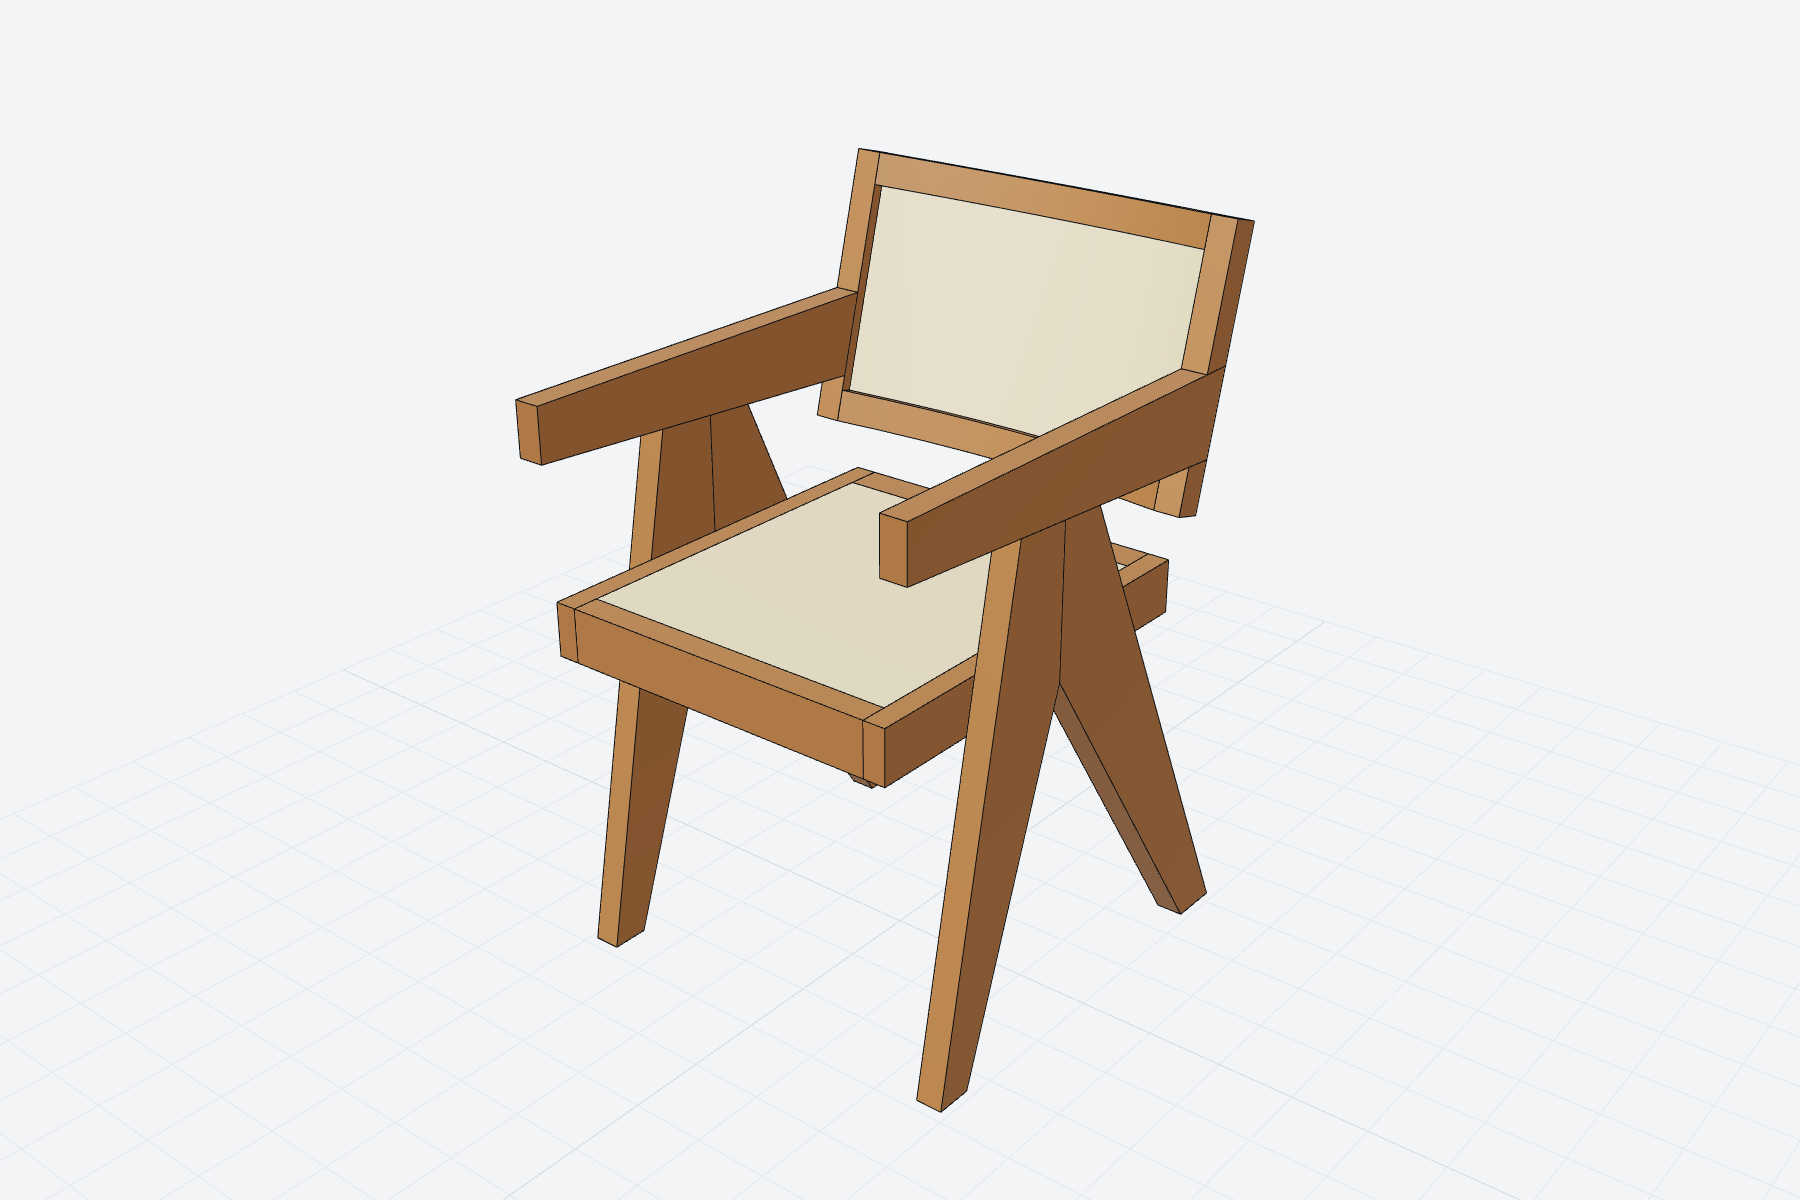
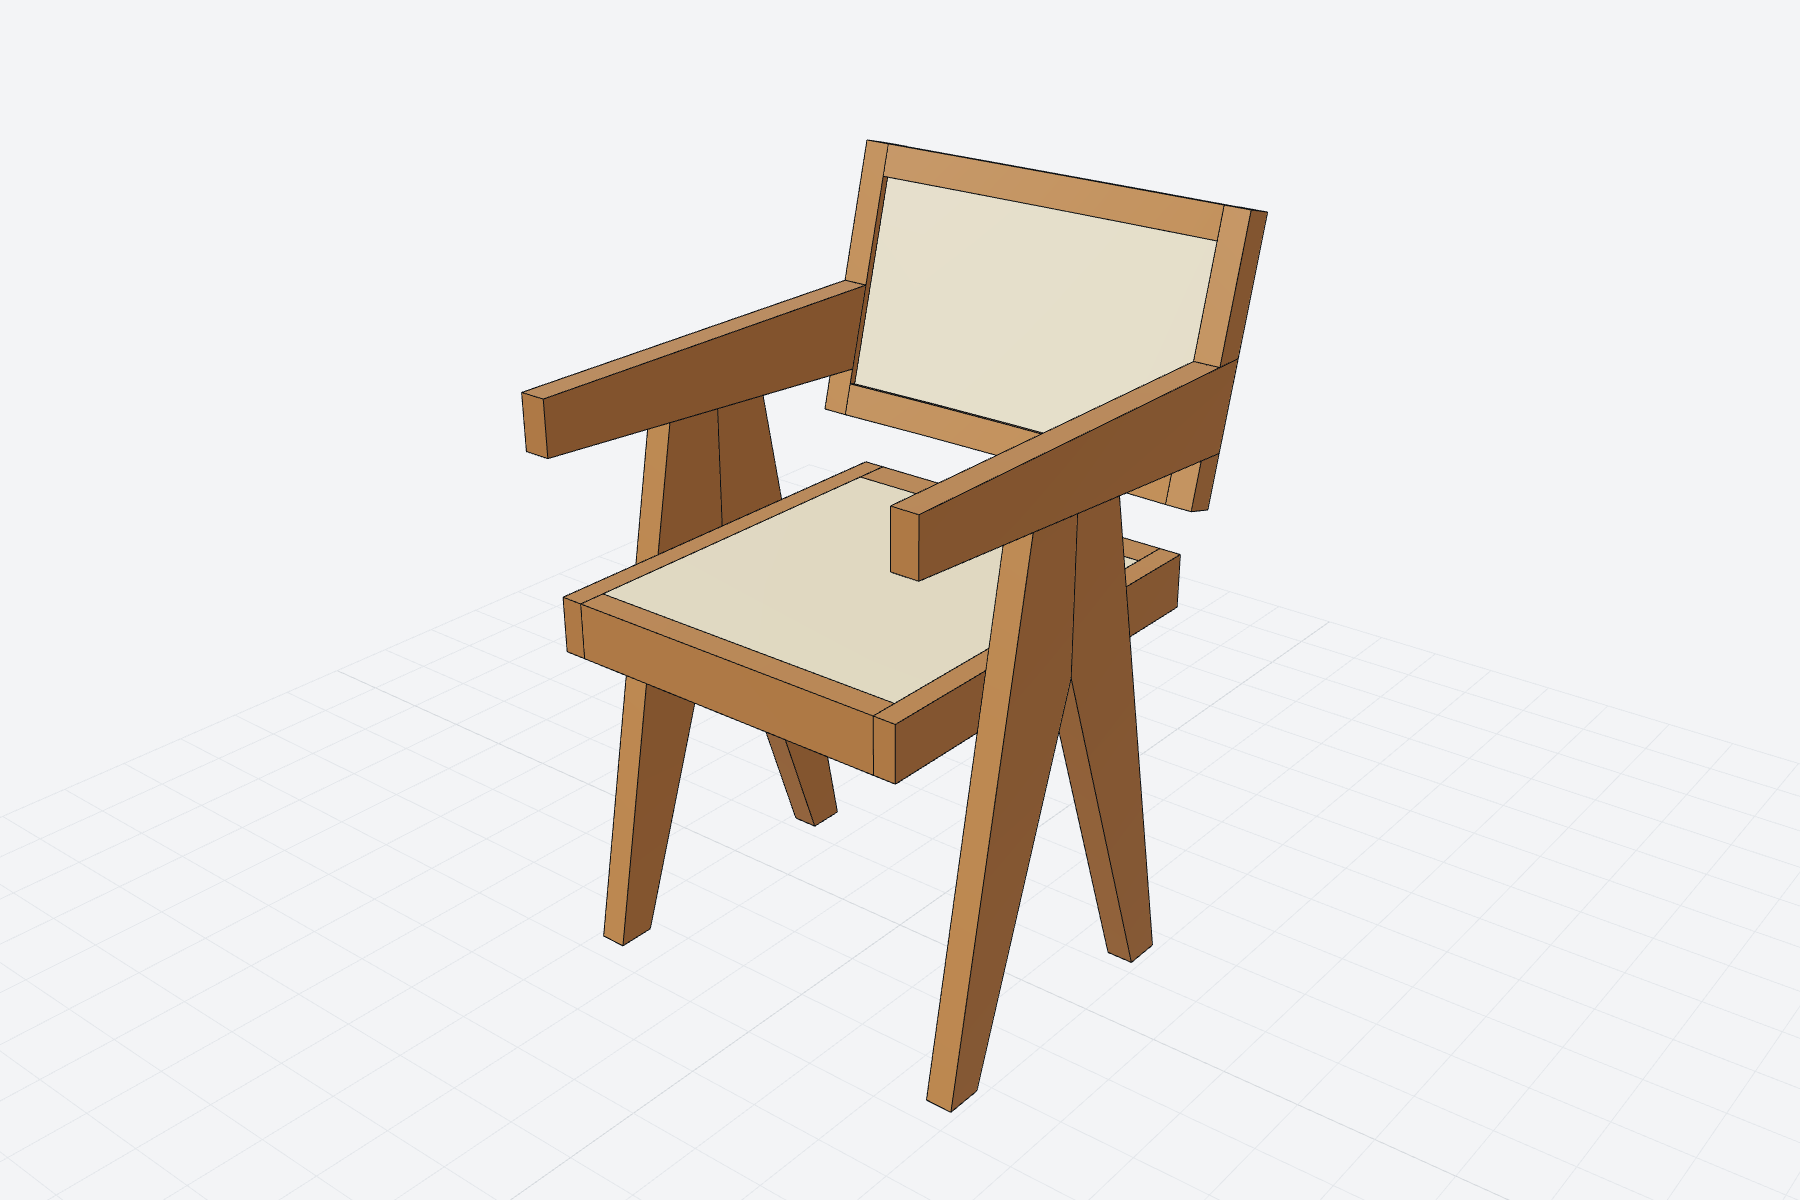
Examples: the compass armchair's legs are an isosceles V and its back's camber hides within the posts
The two boards of a side now mirror about the seam, feet at 139..181 mm either side of it and edges 70 mm
either side under the armrest, as on the chair; only their tops differ, each following the armrest's slope.
The back's rails are 24 mm deep in 34 mm posts: an arc of radius 2222 mm whose 10 mm bow keeps the rails'
rear face flush with the posts' back at the middle and their front face flush with the posts' front at the
ends, so that nothing of the back shows beyond the posts in a side view. The rails' tenons sit where the
arc's middle line meets the posts. The check also asserts, in the back's own frame, that no member of the
back reaches before or behind the posts.

Changed region(s): [[0.28, 0.0925, 0.7156, 0.925], [0.3422, 0.2775, 0.4044, 0.3083]]

diff --git a/examples/compass_armchair.py b/examples/compass_armchair.py
@@ -8,26 +8,31 @@ from smlibpy import *
 # catalogue: 51 cm over the arms, 55 deep, seat 43-45, arms 66. The chair faces -Y; x = 0 is its middle. The legs,
 # the armrest and the back post of a side are boards of one thickness, all in one plane.
 W, LEG_T = 480.0, 30.0  # outside width over the boards; their thickness across the chair
-FRONT_FOOT, REAR_FOOT = (-181.0, -139.0), (262.0, 318.0)  # the feet on the floor, front edge to back edge
+FRONT_FOOT, REAR_FOOT = (-181.0, -139.0), (139.0, 181.0)  # the feet on the floor, front edge to back edge
 NOTCH_Z = 400.0  # where the two boards of a side part, on the seam y = 0; above it they are one up to the armrest
-ARM_EDGES = (-70.0, 58.0)  # the two boards' outer edges where they meet the armrest
+ARM_EDGES = (-70.0, 70.0)  # the two boards' outer edges where they meet the armrest: the V is isosceles
 SPLINE, SPLINE_Z = (20.0, 16.0), 457.0  # a loose tenon on the seam, across and thick, from this height up
 SPLINE_IN_ARM = 40.0  # how far it goes on into the armrest
 ARM_TOP, ARM_FRONT = 645.0, -235.0  # the armrest, a blade on edge: its level top and its nose
 ARM_HEIGHT = ((-235.0, 60.0), (280.0, 95.0))  # (y, height) at the nose and at the back: the underside slopes
 SEAT_TOP, RAIL_H, RAIL_T, CANE = 437.0, 60.0, 25.0, 8.0  # the seat frame: top, rail height and thickness; cane
 SEAT_Y, FRONT_RAIL_T, REAR_RAIL_T = (-229.0, 240.0), 30.0, 40.0  # the side rails, nose to back; the cross rails
-TENON, LEG_TENON_Y = (20.0, 10.0, 40.0), (-55.0, 70.0)  # into the leg or the rail, thick, high; where the legs get it
+TENON, LEG_TENON_Y = (20.0, 10.0, 40.0), (-55.0, 55.0)  # into the leg or the rail, thick, high; where the legs get it
 BACK_TILT, POST = 15.0, (30.0, 34.0)  # the back leans 15 degrees; a post: across, deep
 POST_Y_AT_ARM = 260.0  # the posts' axis at the armrest's top
-R_BACK, RAIL_D = 700.0, 32.0  # the back is an arc: the radius of its middle line; its rails are this deep
+RAIL_D = 24.0  # the back's rails are this deep, less than the posts: the arc's bow hides within the posts' depth
 BACK_RAILS, BACK_TENON = ((65.0, 100.0), (330.0, 365.0)), (20.0, 10.0, 20.0)  # along the posts, from seat height
 BIG = 3000.0
 
 X_BOARD = W / 2 - LEG_T  # the inner face of a side's boards
 LEAN = math.radians(BACK_TILT)
 POST_Y = POST_Y_AT_ARM - (ARM_TOP - SEAT_TOP) * math.tan(LEAN)  # the posts' axis at seat height
-ARC_Y = -math.sqrt(R_BACK**2 - X_BOARD**2)  # the arc's center, so that its middle line passes through the posts' axes
+BOW = POST[1] - RAIL_D  # the arc's inner line bows this much (10 mm) over the half chord between the posts
+R_BACK = (X_BOARD**2 + BOW**2) / (2 * BOW) + RAIL_D / 2  # the radius of the arc's middle line
+# The arc's center: the rails' rear face is flush with the posts' rear face at the middle, their front face with
+# the posts' front face at the ends, so that nothing of the back shows beyond the posts in a side view.
+ARC_Y = POST[1] / 2 - (R_BACK + RAIL_D / 2)
+Y_END = ARC_Y + math.sqrt(R_BACK**2 - X_BOARD**2)  # the arc's middle line where it meets a post
 
 
 def underside(y: float) -> float:
@@ -48,6 +53,7 @@ FRONT_LEG = [
     (0, underside(0)),
     (ARM_EDGES[0], underside(ARM_EDGES[0])),
 ]
+# Its mirror image about the seam, but for the top: both boards' tops follow the armrest's sloping underside.
 REAR_LEG = [
     (REAR_FOOT[0], 0),
     (REAR_FOOT[1], 0),
@@ -113,7 +119,9 @@ def model() -> list[Part]:
         arm = (arm_prism & behind_the_posts()) - [post_full & inner, spline]
         post = post_full - (arm_prism & outer)
         post -= [
-            tilt(Box(*BACK_TENON, align=(Align.MIN, Align.CENTER, Align.CENTER)).translate(X_BOARD, 0, (z0 + z1) / 2))
+            tilt(
+                Box(*BACK_TENON, align=(Align.MIN, Align.CENTER, Align.CENTER)).translate(X_BOARD, Y_END, (z0 + z1) / 2)
+            )
             for z0, z1 in BACK_RAILS
         ]
         for p, name in (
@@ -141,20 +149,24 @@ def model() -> list[Part]:
         2 * x_rail, SEAT_Y[1] - REAR_RAIL_T - SEAT_Y[0] - FRONT_RAIL_T, CANE, align=(Align.CENTER, Align.MIN, Align.MAX)
     )
     parts.append(seat.translate(0, SEAT_Y[0] + FRONT_RAIL_T, SEAT_TOP).named("seat cane").colored(cane))
+    for member, name in back_frame():
+        parts.append(tilt(member).named(name).colored(cane if name == "back cane" else teak))
+    return parts
+
+
+def back_frame() -> list[tuple[Part, str]]:
+    """The back's rails and cane panel, in the back's own frame: arcs that stay within the posts' depth."""
+    members = []
     for z0, z1 in BACK_RAILS:
         rail = arc_band(R_BACK - RAIL_D / 2, R_BACK + RAIL_D / 2).extrude(z1 - z0).translate(0, 0, z0)
         for s in (1, -1):
             rail += Box(*BACK_TENON, align=(Align.MIN if s > 0 else Align.MAX, Align.CENTER, Align.CENTER)).translate(
-                s * X_BOARD, 0, (z0 + z1) / 2
+                s * X_BOARD, Y_END, (z0 + z1) / 2
             )
-        parts.append(tilt(rail).named("back rail").colored(teak))
-    panel = (
-        arc_band(R_BACK - CANE / 2, R_BACK + CANE / 2)
-        .extrude(BACK_RAILS[1][0] - BACK_RAILS[0][1])
-        .translate(0, 0, BACK_RAILS[0][1])
-    )
-    parts.append(tilt(panel).named("back cane").colored(cane))
-    return parts
+        members.append((rail, "back rail"))
+    panel = arc_band(R_BACK - CANE / 2, R_BACK + CANE / 2).extrude(BACK_RAILS[1][0] - BACK_RAILS[0][1])
+    members.append((panel.translate(0, 0, BACK_RAILS[0][1]), "back cane"))
+    return members
 
 
 def area(polygon: list[tuple[float, float]]) -> float:
@@ -258,6 +270,9 @@ def check(parts: list[Part]) -> None:
                 assert by_name[name][0].distance_to(by_name[other][0]) > 0.5, (name, other)
     for name in ("front leg", "rear leg"):
         assert all(abs(p.bbox().min.z) < 1e-6 for p in by_name[name]), name  # feet flat on the floor
+    for member, name in back_frame():  # in the back's own frame: nothing of it before or behind the posts
+        box = member.bbox()
+        assert box.min.y > -POST[1] / 2 - 1e-6 and box.max.y < POST[1] / 2 + 1e-6, (name, box.min.y, box.max.y)
     teak = sum(p.mass_properties(density=0.65e-3).mass for p in parts if "cane" not in p.name)
     print(f"{len(parts)} parts, {whole.bbox().size} mm over all, teak {teak / 1000:.2f} kg")
 

diff --git a/docs/examples.md b/docs/examples.md
@@ -216,26 +216,31 @@ from smlibpy import *
 # catalogue: 51 cm over the arms, 55 deep, seat 43-45, arms 66. The chair faces -Y; x = 0 is its middle. The legs,
 # the armrest and the back post of a side are boards of one thickness, all in one plane.
 W, LEG_T = 480.0, 30.0  # outside width over the boards; their thickness across the chair
-FRONT_FOOT, REAR_FOOT = (-181.0, -139.0), (262.0, 318.0)  # the feet on the floor, front edge to back edge
+FRONT_FOOT, REAR_FOOT = (-181.0, -139.0), (139.0, 181.0)  # the feet on the floor, front edge to back edge
 NOTCH_Z = 400.0  # where the two boards of a side part, on the seam y = 0; above it they are one up to the armrest
-ARM_EDGES = (-70.0, 58.0)  # the two boards' outer edges where they meet the armrest
+ARM_EDGES = (-70.0, 70.0)  # the two boards' outer edges where they meet the armrest: the V is isosceles
 SPLINE, SPLINE_Z = (20.0, 16.0), 457.0  # a loose tenon on the seam, across and thick, from this height up
 SPLINE_IN_ARM = 40.0  # how far it goes on into the armrest
 ARM_TOP, ARM_FRONT = 645.0, -235.0  # the armrest, a blade on edge: its level top and its nose
 ARM_HEIGHT = ((-235.0, 60.0), (280.0, 95.0))  # (y, height) at the nose and at the back: the underside slopes
 SEAT_TOP, RAIL_H, RAIL_T, CANE = 437.0, 60.0, 25.0, 8.0  # the seat frame: top, rail height and thickness; cane
 SEAT_Y, FRONT_RAIL_T, REAR_RAIL_T = (-229.0, 240.0), 30.0, 40.0  # the side rails, nose to back; the cross rails
-TENON, LEG_TENON_Y = (20.0, 10.0, 40.0), (-55.0, 70.0)  # into the leg or the rail, thick, high; where the legs get it
+TENON, LEG_TENON_Y = (20.0, 10.0, 40.0), (-55.0, 55.0)  # into the leg or the rail, thick, high; where the legs get it
 BACK_TILT, POST = 15.0, (30.0, 34.0)  # the back leans 15 degrees; a post: across, deep
 POST_Y_AT_ARM = 260.0  # the posts' axis at the armrest's top
-R_BACK, RAIL_D = 700.0, 32.0  # the back is an arc: the radius of its middle line; its rails are this deep
+RAIL_D = 24.0  # the back's rails are this deep, less than the posts: the arc's bow hides within the posts' depth
 BACK_RAILS, BACK_TENON = ((65.0, 100.0), (330.0, 365.0)), (20.0, 10.0, 20.0)  # along the posts, from seat height
 BIG = 3000.0
 
 X_BOARD = W / 2 - LEG_T  # the inner face of a side's boards
 LEAN = math.radians(BACK_TILT)
 POST_Y = POST_Y_AT_ARM - (ARM_TOP - SEAT_TOP) * math.tan(LEAN)  # the posts' axis at seat height
-ARC_Y = -math.sqrt(R_BACK**2 - X_BOARD**2)  # the arc's center, so that its middle line passes through the posts' axes
+BOW = POST[1] - RAIL_D  # the arc's inner line bows this much (10 mm) over the half chord between the posts
+R_BACK = (X_BOARD**2 + BOW**2) / (2 * BOW) + RAIL_D / 2  # the radius of the arc's middle line
+# The arc's center: the rails' rear face is flush with the posts' rear face at the middle, their front face with
+# the posts' front face at the ends, so that nothing of the back shows beyond the posts in a side view.
+ARC_Y = POST[1] / 2 - (R_BACK + RAIL_D / 2)
+Y_END = ARC_Y + math.sqrt(R_BACK**2 - X_BOARD**2)  # the arc's middle line where it meets a post
 
 
 def underside(y: float) -> float:
@@ -256,6 +261,7 @@ FRONT_LEG = [
     (0, underside(0)),
     (ARM_EDGES[0], underside(ARM_EDGES[0])),
 ]
+# Its mirror image about the seam, but for the top: both boards' tops follow the armrest's sloping underside.
 REAR_LEG = [
     (REAR_FOOT[0], 0),
     (REAR_FOOT[1], 0),
@@ -321,7 +327,9 @@ def model() -> list[Part]:
         arm = (arm_prism & behind_the_posts()) - [post_full & inner, spline]
         post = post_full - (arm_prism & outer)
         post -= [
-            tilt(Box(*BACK_TENON, align=(Align.MIN, Align.CENTER, Align.CENTER)).translate(X_BOARD, 0, (z0 + z1) / 2))
+            tilt(
+                Box(*BACK_TENON, align=(Align.MIN, Align.CENTER, Align.CENTER)).translate(X_BOARD, Y_END, (z0 + z1) / 2)
+            )
             for z0, z1 in BACK_RAILS
         ]
         for p, name in (
@@ -349,20 +357,24 @@ def model() -> list[Part]:
         2 * x_rail, SEAT_Y[1] - REAR_RAIL_T - SEAT_Y[0] - FRONT_RAIL_T, CANE, align=(Align.CENTER, Align.MIN, Align.MAX)
     )
     parts.append(seat.translate(0, SEAT_Y[0] + FRONT_RAIL_T, SEAT_TOP).named("seat cane").colored(cane))
+    for member, name in back_frame():
+        parts.append(tilt(member).named(name).colored(cane if name == "back cane" else teak))
+    return parts
+
+
+def back_frame() -> list[tuple[Part, str]]:
+    """The back's rails and cane panel, in the back's own frame: arcs that stay within the posts' depth."""
+    members = []
     for z0, z1 in BACK_RAILS:
         rail = arc_band(R_BACK - RAIL_D / 2, R_BACK + RAIL_D / 2).extrude(z1 - z0).translate(0, 0, z0)
         for s in (1, -1):
             rail += Box(*BACK_TENON, align=(Align.MIN if s > 0 else Align.MAX, Align.CENTER, Align.CENTER)).translate(
-                s * X_BOARD, 0, (z0 + z1) / 2
+                s * X_BOARD, Y_END, (z0 + z1) / 2
             )
-        parts.append(tilt(rail).named("back rail").colored(teak))
-    panel = (
-        arc_band(R_BACK - CANE / 2, R_BACK + CANE / 2)
-        .extrude(BACK_RAILS[1][0] - BACK_RAILS[0][1])
-        .translate(0, 0, BACK_RAILS[0][1])
-    )
-    parts.append(tilt(panel).named("back cane").colored(cane))
-    return parts
+        members.append((rail, "back rail"))
+    panel = arc_band(R_BACK - CANE / 2, R_BACK + CANE / 2).extrude(BACK_RAILS[1][0] - BACK_RAILS[0][1])
+    members.append((panel.translate(0, 0, BACK_RAILS[0][1]), "back cane"))
+    return members
 
 
 def area(polygon: list[tuple[float, float]]) -> float:
@@ -466,6 +478,9 @@ def check(parts: list[Part]) -> None:
                 assert by_name[name][0].distance_to(by_name[other][0]) > 0.5, (name, other)
     for name in ("front leg", "rear leg"):
         assert all(abs(p.bbox().min.z) < 1e-6 for p in by_name[name]), name  # feet flat on the floor
+    for member, name in back_frame():  # in the back's own frame: nothing of it before or behind the posts
+        box = member.bbox()
+        assert box.min.y > -POST[1] / 2 - 1e-6 and box.max.y < POST[1] / 2 + 1e-6, (name, box.min.y, box.max.y)
     teak = sum(p.mass_properties(density=0.65e-3).mass for p in parts if "cane" not in p.name)
     print(f"{len(parts)} parts, {whole.bbox().size} mm over all, teak {teak / 1000:.2f} kg")
 ```
